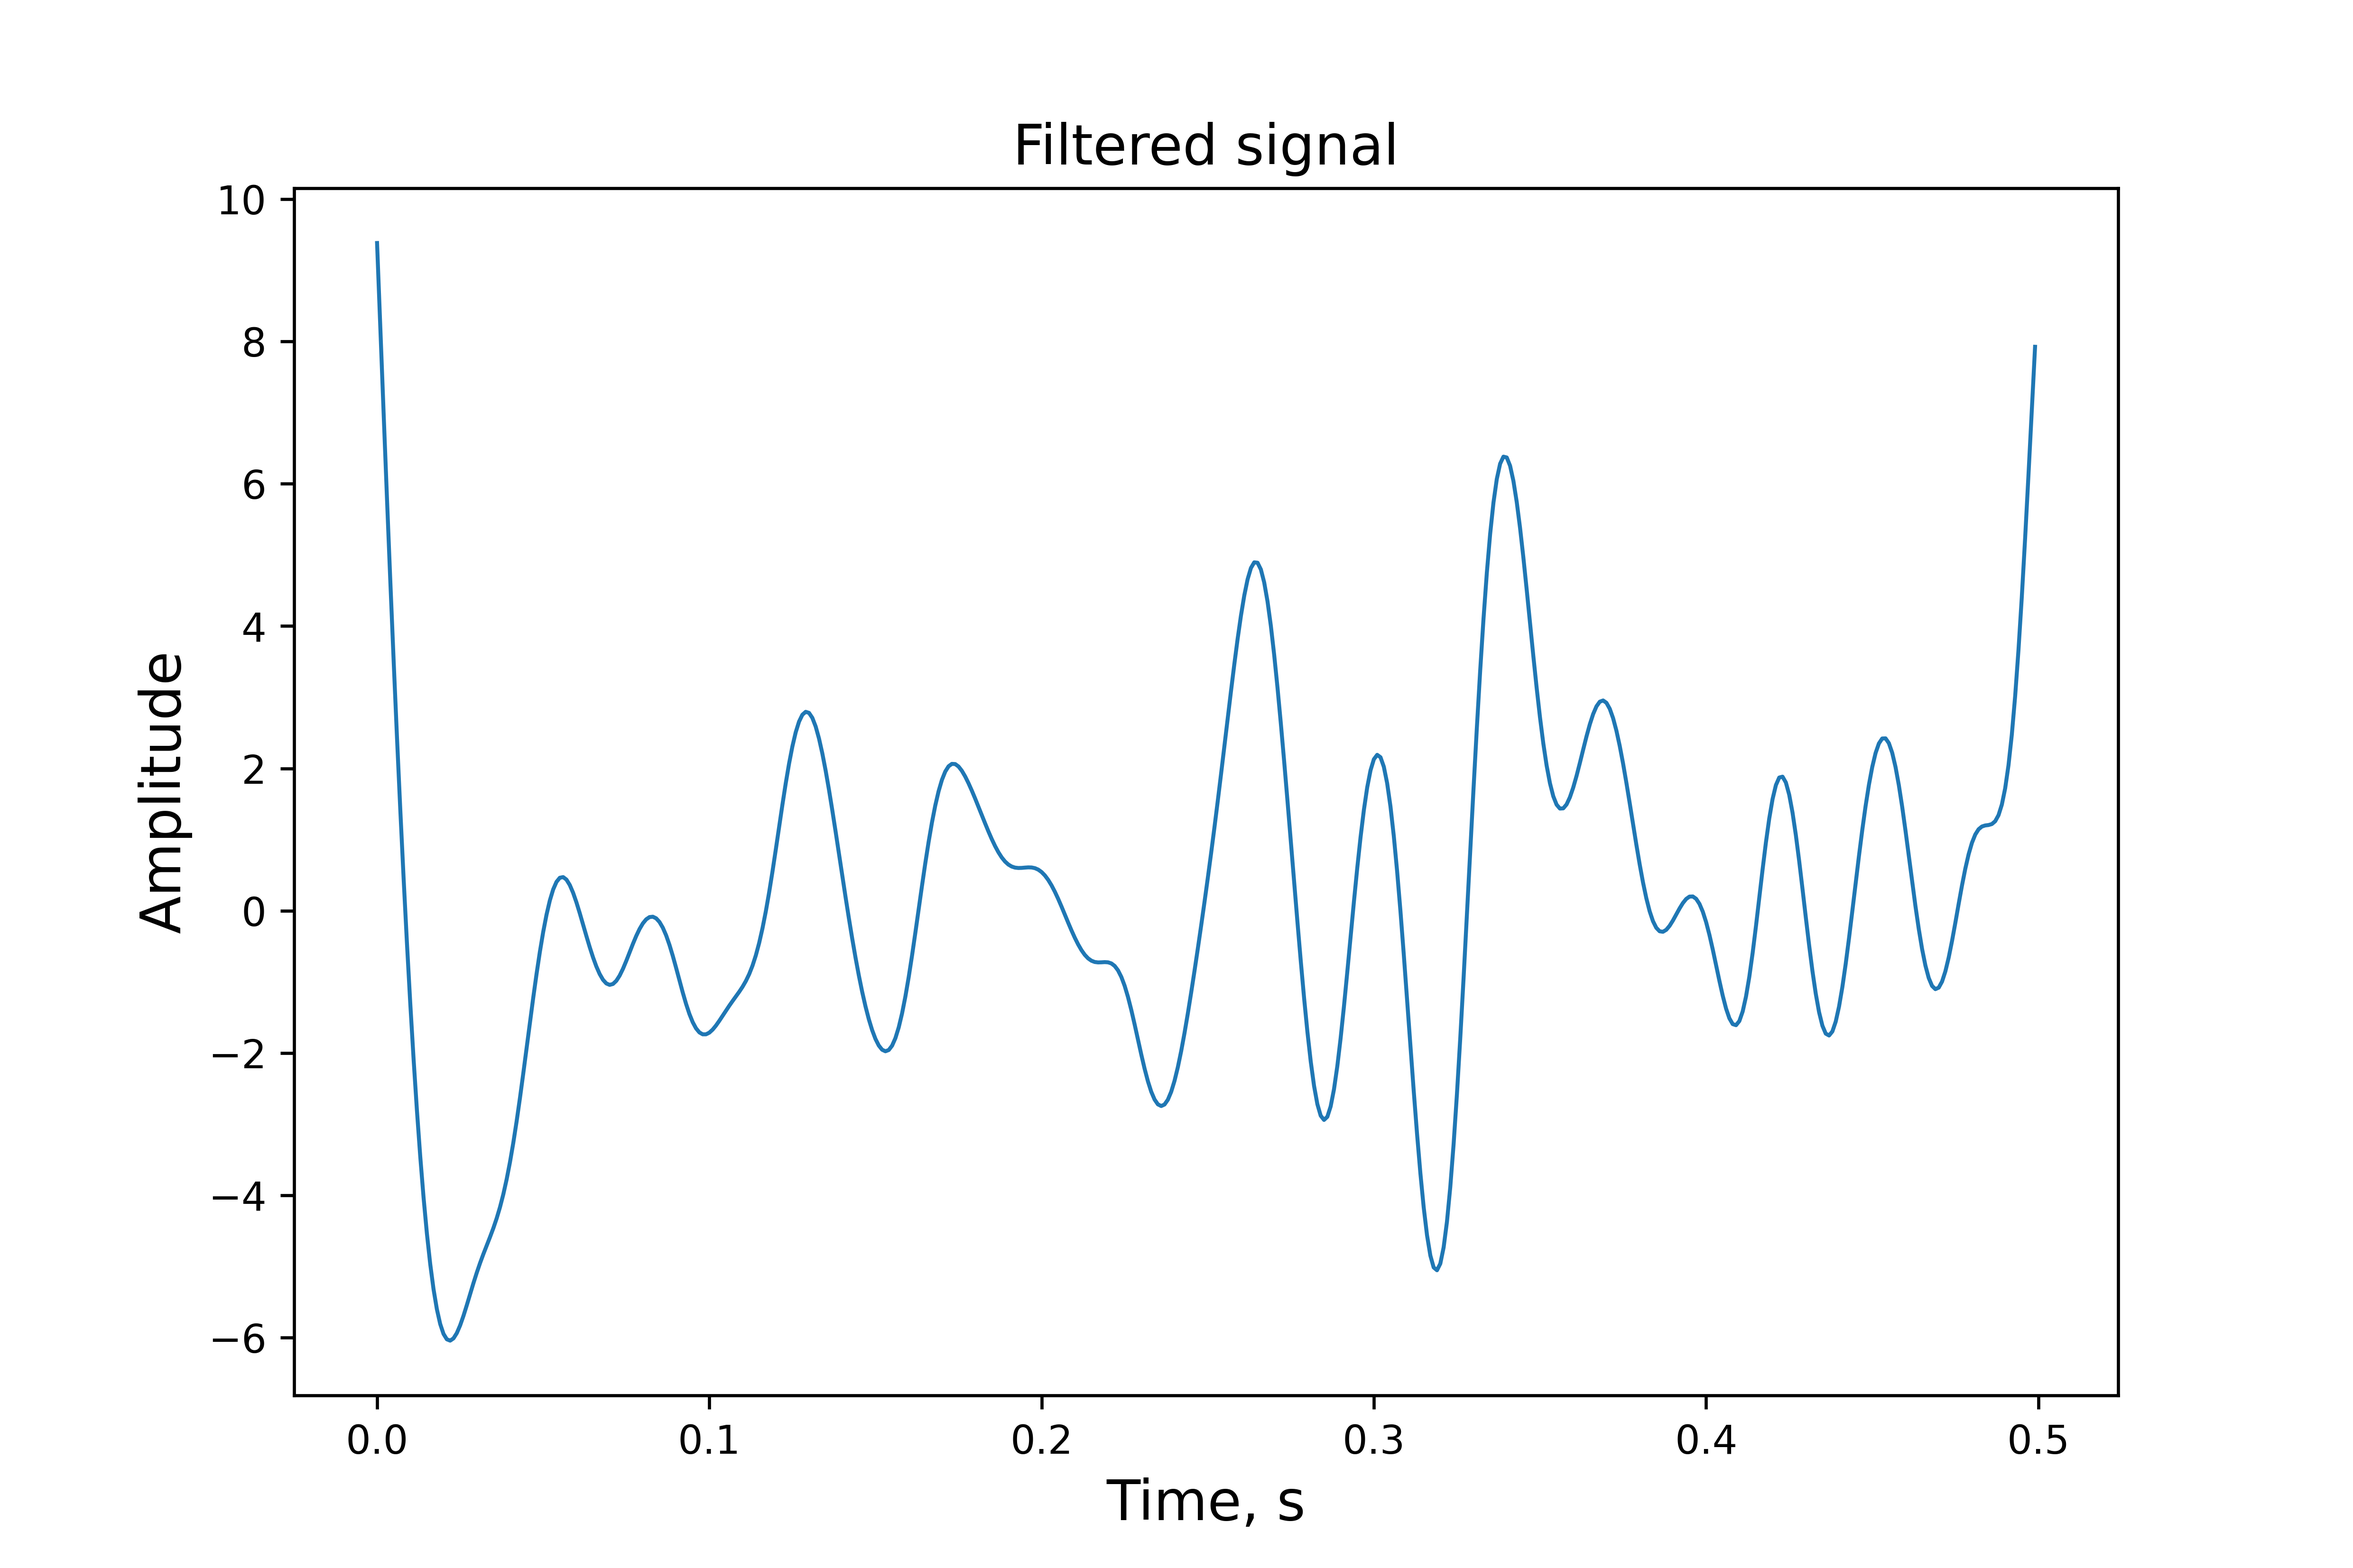
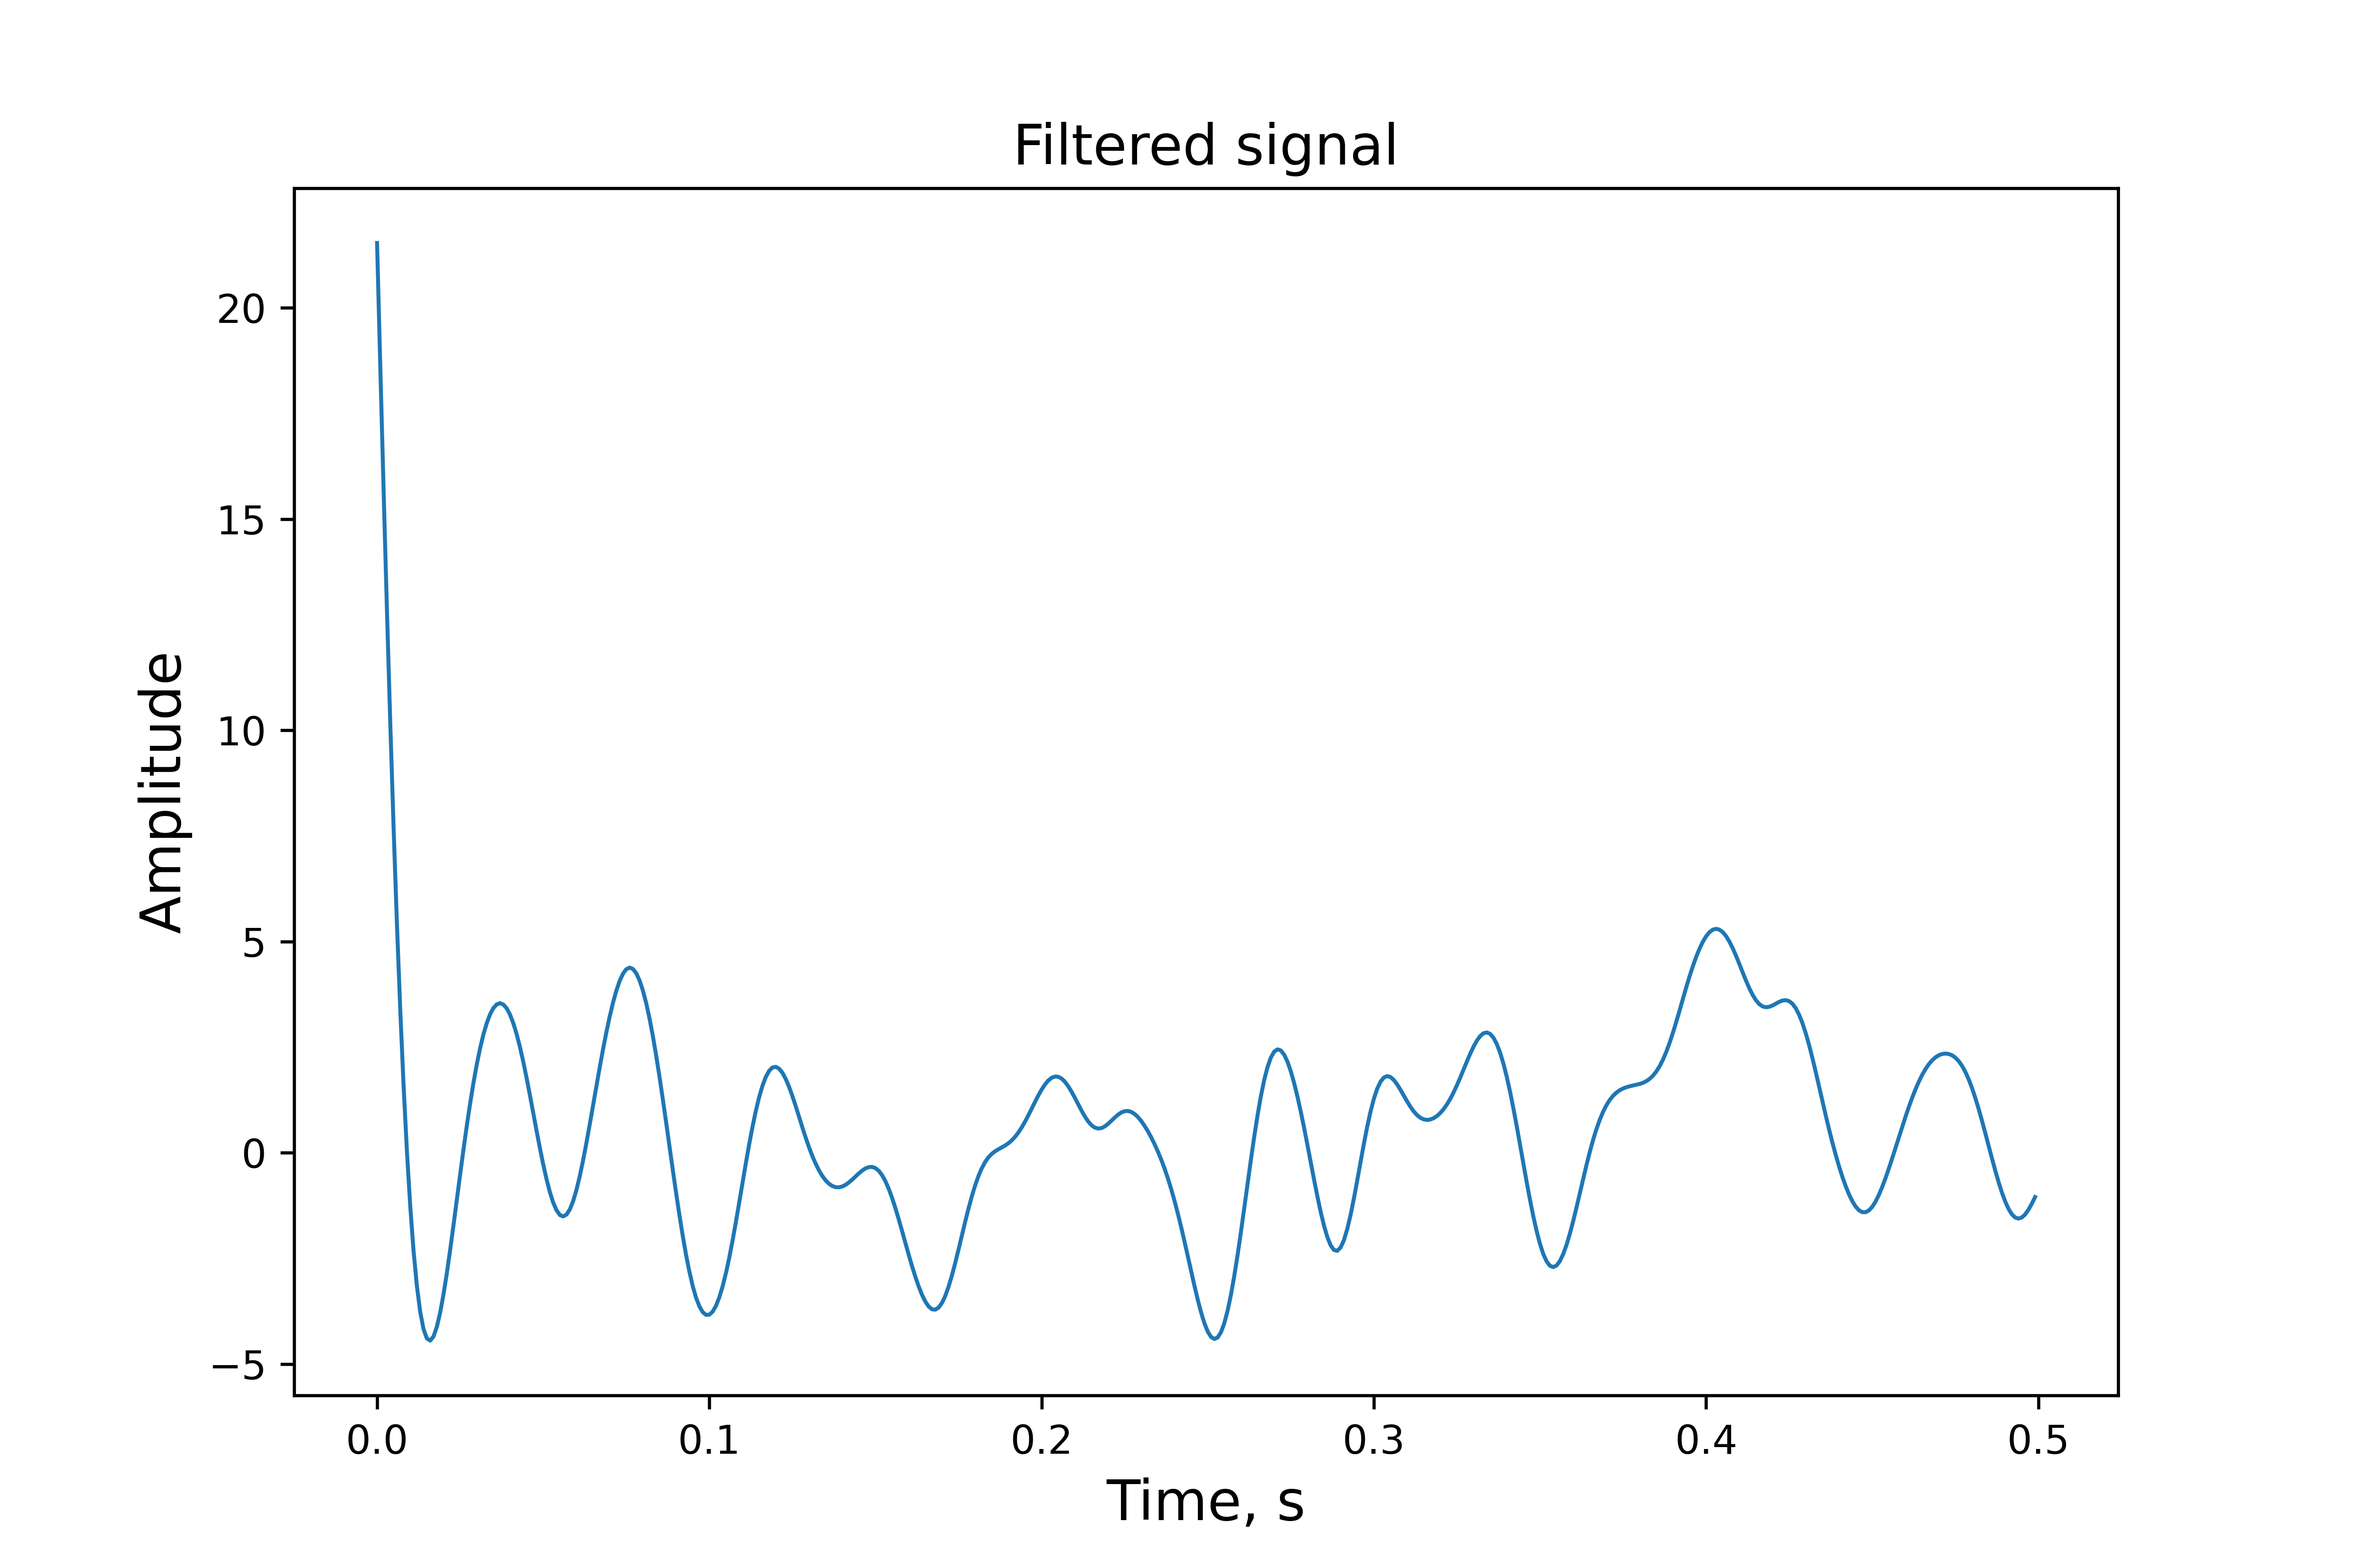
SignalProcessing, 2

diff --git a/SignalProcessing.py b/SignalProcessing.py
@@ -1,32 +1,110 @@
 import numpy as np
-from scipy import signal, fft
 import matplotlib.pyplot as plt
+from scipy import signal
 
-n =500
+n = 500
 Fs = 1000
-random = np.random.normal(0, 10, n)
+F_max = 31
+F_filter = 38
+t = np.linspace(0, n / Fs, n, endpoint=False)
+input_signal = np.random.randn(n)
 
-time = np.arange(n)/Fs
+w = F_filter / (Fs / 2)
+b, a = signal.butter(3, w, 'low', output='ba')
+filtered_signal = signal.filtfilt(b, a, input_signal)
 
-F_max =31
-w = F_max/(Fs/2)
-parameters_filter = signal.butter(3, w, 'low', output='sos')
+discrete_signals = []
+discrete_spectrums = []
+reconstructed_signals = []
+dispersions = []
+snrs = []
 
-filtered_signal = signal.sosfiltfilt(parameters_filter, random)
+Dts = [2, 4, 8, 16]
+for Dt in Dts:
+    discrete_signal = np.zeros(n)
+    for i in range(0, round(n / Dt)):
+        discrete_signal[i * Dt] = filtered_signal[i * Dt]
+    discrete_signals.append(discrete_signal)
 
-def plot_signal(y, x, title, xlabel, ylabel):
-  fig, ax = plt.subplots(figsize=(21/2.54, 14/2.54))
-  ax.plot(x, y, linewidth=1)
-  ax.set_xlabel(xlabel, fontsize=14)
-  ax.set_ylabel(ylabel, fontsize=14)
-  plt.title(title, fontsize=14)
-  fig.savefig('./figures/'+title+'.png', dpi=600)
 
-plot_signal(filtered_signal, time, 'Filtered signal', 'Time, s', 'Amplitude')
+    fft_discrete = np.fft.fft(discrete_signal)
+    fft_discrete = np.fft.fftshift(fft_discrete)
+    freq = np.fft.fftfreq(n, 1 / Fs)
+    freq = np.fft.fftshift(freq)
+    discrete_spectrums.append(abs(fft_discrete))
 
-spectrum = fft.fft(filtered_signal)
-spectrum = np.abs(fft.fftshift(spectrum))
-freq = fft.fftfreq(n, 1/n)
-freq = fft.fftshift(freq)
 
-plot_signal(spectrum, freq, 'Spectrum', 'Frequency, Hz', 'Spectrum, dB')
+    w = F_filter / (Fs / 2)
+    b, a = signal.butter(3, w, 'low', output='ba')
+    reconstructed_signal = signal.filtfilt(b, a, discrete_signal)
+    reconstructed_signals.append(reconstructed_signal)
+
+    E1 = reconstructed_signal - filtered_signal
+    signal_var = np.var(filtered_signal)
+    E1_var = np.var(E1)
+    dispersions.append(E1_var)
+    snrs.append(signal_var / E1_var)
+
+fig, ax = plt.subplots(2, 2, figsize=(21 / 2.54, 14 / 2.54))
+line_width = 1
+font_size = 14
+x = t
+s = 0
+for i in range(2):
+   for j in range(2):
+       ax[i, j].plot(x, discrete_signals[s], linewidth=line_width)
+       s += 1
+fig.supxlabel('Час, с', fontsize=font_size)
+fig.supylabel('Амплітуда', fontsize=font_size)
+fig.suptitle('Дискретизовані сигнали', fontsize=font_size)
+fig.savefig('./figures/discretized_signals.png', dpi=600)
+
+fig, ax = plt.subplots(2, 2, figsize=(21 / 2.54, 14 / 2.54))
+line_width = 1
+font_size = 14
+x = freq
+s = 0
+for i in range(2):
+   for j in range(2):
+       ax[i, j].plot(x, discrete_spectrums[s], linewidth=line_width)
+       s += 1
+fig.supxlabel('Частота, Гц', fontsize=font_size)
+fig.supylabel('Амплітуда', fontsize=font_size)
+fig.suptitle('Спектри дискретизовані сигналів', fontsize=font_size)
+fig.savefig('./figures/discrete_spectrums.png', dpi=600)
+
+fig, ax = plt.subplots(2, 2, figsize=(21 / 2.54, 14 / 2.54))
+line_width = 1
+font_size = 14
+x = t
+s = 0
+for i in range(2):
+   for j in range(2):
+       ax[i, j].plot(x, reconstructed_signals[s], linewidth=line_width)
+       s += 1
+fig.supxlabel('Час, с', fontsize=font_size)
+fig.supylabel('Амплітуда', fontsize=font_size)
+fig.suptitle('Відновленні  сигнали', fontsize=font_size)
+fig.savefig('./figures/reconstructed_signals.png', dpi=600)
+
+fig, ax = plt.subplots(figsize=(14 / 2.54, 10 / 2.54))
+line_width = 1
+font_size = 14
+x = Dts
+y = dispersions
+ax.plot(x, y, linewidth=line_width)
+ax.set_xlabel('Крок дискретизація', fontsize=font_size)
+ax.set_ylabel('Дисперсія', fontsize=font_size)
+ax.set_title('Залежність дисперсії від кроку дискретизації', fontsize=font_size)
+fig.savefig('./figures/dispersion.png', dpi=600)
+
+fig, ax = plt.subplots(figsize=(14 / 2.54, 10 / 2.54))
+line_width = 1
+font_size = 14
+x = Dts
+y = snrs
+ax.plot(x, y, linewidth=line_width)
+ax.set_xlabel('Крок дискретизації', fontsize=font_size)
+ax.set_ylabel('Відношення сигнал/шум', fontsize=font_size)
+ax.set_title('Залежність відношення сигнал/шум від кроку дискретизації', fontsize=font_size)
+fig.savefig('./figures/snr.png', dpi=600)
